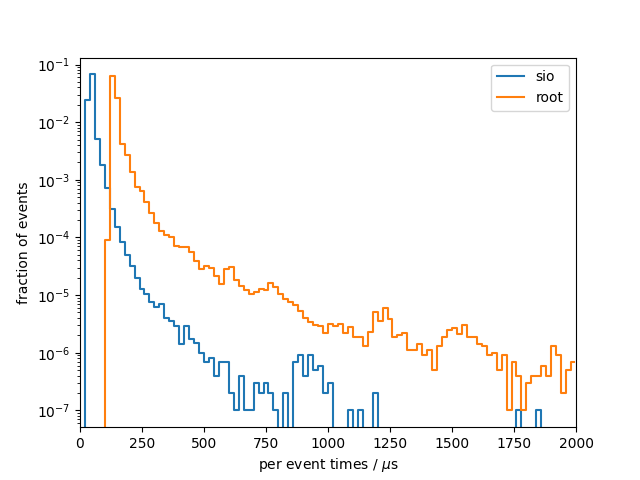
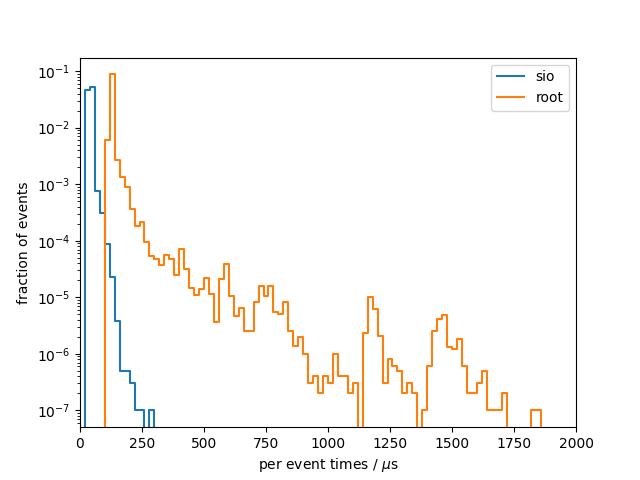
Updated version of ee -> Z -> tau tau results

diff --git a/results/k4SimDelphes/ee_Z_tautau_root-6.20.04/README.md b/results/k4SimDelphes/ee_Z_tautau_root-6.20.04/README.md
@@ -13,26 +13,26 @@ Results from 10 benchmark runs with 100000 events each
 #### Wall times
 | min [s]  | mean [s] |  max [s] |
 |----------|----------|----------|
-|     1284 |     1362 |     1553 |
+|     1263 |     1266 |     1270 |
 
 #### I/O times
 |                          |   min    |   mean   |   max    |
 |--------------------------|----------|----------|----------|
-| total [s]                |    12.52 |    15.01 |    22.77 |
+| total [s]                |    12.22 |    12.27 |    12.34 |
 #### Setup times
 |                          |   min    |   mean   |   max    |
 |--------------------------|----------|----------|----------|
-| total setup [ms]         |    10.51 |    14.50 |    24.40 |
-| constructor [ms]         |    1.974 |    4.819 |    15.10 |
-| finish [ms]              |    8.381 |    9.671 |    13.89 |
+| total setup [ms]         |    10.31 |    10.92 |    13.40 |
+| constructor [ms]         |    1.950 |    2.312 |    4.836 |
+| finish [ms]              |    8.345 |    8.593 |    9.048 |
 #### Per event times
 |                          |   min    |   mean   |   max    |
 |--------------------------|----------|----------|----------|
-| median [us]              |    120.6 |    138.4 |    192.3 |
-| min [us]                 |    70.24 |    77.42 |    106.3 |
-| max [us]                 |     1969 | 1.12e+04 | 2.66e+04 |
-| 90 percentile [us]       |    146.1 |    194.4 |    351.0 |
-| 99 percentile [us]       |    228.5 |    332.5 |    575.6 |
+| median [us]              |    120.8 |    121.1 |    121.6 |
+| min [us]                 |    73.32 |    74.40 |    75.59 |
+| max [us]                 |    445.3 |    909.0 |     1266 |
+| 90 percentile [us]       |    140.2 |    140.8 |    141.8 |
+| 99 percentile [us]       |    176.5 |    182.1 |    191.2 |
 
 ### root
 Results from 10 benchmark runs with 100000 events each
@@ -40,26 +40,26 @@ Results from 10 benchmark runs with 100000 events each
 #### Wall times
 | min [s]  | mean [s] |  max [s] |
 |----------|----------|----------|
-|     1283 |     1368 |     1493 |
+|     1270 |     1273 |     1279 |
 
 #### I/O times
 |                          |   min    |   mean   |   max    |
 |--------------------------|----------|----------|----------|
-| total [s]                |    18.02 |    27.61 |    46.38 |
+| total [s]                |    17.76 |    18.28 |    18.71 |
 #### Setup times
 |                          |   min    |   mean   |   max    |
 |--------------------------|----------|----------|----------|
-| total setup [ms]         |    691.4 |    749.0 |     1045 |
-| constructor [ms]         |    29.47 |    36.60 |    58.18 |
-| finish [ms]              |    660.3 |    712.4 |     1005 |
+| total setup [ms]         |    662.9 |    670.6 |    690.5 |
+| constructor [ms]         |    29.07 |    31.12 |    42.31 |
+| finish [ms]              |    632.3 |    639.5 |    660.9 |
 #### Per event times
 |                          |   min    |   mean   |   max    |
 |--------------------------|----------|----------|----------|
-| median [us]              |    134.3 |    185.3 |    312.0 |
-| min [us]                 |    119.4 |    128.2 |    136.4 |
-| max [us]                 | 7.81e+05 | 8.30e+05 | 9.95e+05 |
-| 90 percentile [us]       |    166.1 |    381.3 |    787.0 |
-| 99 percentile [us]       |    539.3 |     1078 |     1848 |
+| median [us]              |    138.3 |    143.1 |    145.5 |
+| min [us]                 |    124.2 |    128.8 |    133.0 |
+| max [us]                 | 7.59e+05 | 7.74e+05 | 7.92e+05 |
+| 90 percentile [us]       |    153.2 |    160.6 |    171.4 |
+| 99 percentile [us]       |    373.3 |    393.8 |    442.7 |
 
 ### per-event comparison plot
 
@@ -73,28 +73,28 @@ Results from 10 benchmark runs with 100000 events each
 #### Wall times
 | min [s]  | mean [s] |  max [s] |
 |----------|----------|----------|
-|    6.998 |    7.831 |    10.23 |
+|    5.781 |    5.943 |    6.143 |
 
 #### I/O times
 |                          |   min    |   mean   |   max    |
 |--------------------------|----------|----------|----------|
-| total [s]                |    4.289 |    4.784 |    6.138 |
+| total [s]                |    3.921 |    4.011 |    4.120 |
 #### Setup times
 |                          |   min    |   mean   |   max    |
 |--------------------------|----------|----------|----------|
-| total setup [ms]         |    4.063 |    4.623 |    6.715 |
-| read collection ids [us] |    0.163 |    0.222 |    0.469 |
-| open file [ms]           |    2.045 |    2.161 |    2.587 |
-| close file [us]          |    5.889 |    11.89 |    34.91 |
-| constructor [us]         |     1999 |     2449 |     4541 |
+| total setup [ms]         |    3.987 |    4.587 |    8.940 |
+| open file [ms]           |    2.043 |    2.217 |    3.319 |
+| read collection ids [us] |    0.101 |    0.130 |    0.180 |
+| constructor [us]         |     1934 |     2360 |     5613 |
+| close file [us]          |    6.354 |    7.715 |    8.553 |
 #### Per event times
 |                          |   min    |   mean   |   max    |
 |--------------------------|----------|----------|----------|
-| median [us]              |    42.71 |    46.01 |    53.35 |
-| min [us]                 |    27.59 |    29.23 |    31.25 |
-| max [us]                 |    938.7 |     1294 |     2265 |
-| 90 percentile [us]       |    48.44 |    57.44 |    86.50 |
-| 99 percentile [us]       |    78.89 |    102.3 |    188.0 |
+| median [us]              |    39.84 |    40.50 |    41.24 |
+| min [us]                 |    25.38 |    26.12 |    26.78 |
+| max [us]                 |    138.8 |    177.6 |    290.5 |
+| 90 percentile [us]       |    44.68 |    45.60 |    47.19 |
+| 99 percentile [us]       |    52.46 |    63.10 |    73.43 |
 
 ### root
 Results from 10 benchmark runs with 100000 events each
@@ -102,28 +102,28 @@ Results from 10 benchmark runs with 100000 events each
 #### Wall times
 | min [s]  | mean [s] |  max [s] |
 |----------|----------|----------|
-|    17.67 |    19.07 |    22.34 |
+|    15.86 |    16.34 |    16.83 |
 
 #### I/O times
 |                          |   min    |   mean   |   max    |
 |--------------------------|----------|----------|----------|
-| total [s]                |    14.79 |    15.99 |    18.69 |
+| total [s]                |    13.85 |    14.31 |    14.77 |
 #### Setup times
 |                          |   min    |   mean   |   max    |
 |--------------------------|----------|----------|----------|
-| total setup [ms]         |    396.8 |    462.6 |    656.6 |
-| read collection ids [us] |    0.391 |    0.767 |    2.844 |
-| open file [ms]           |    388.4 |    454.0 |    645.5 |
-| close file [us]          |     7538 |     8599 | 1.11e+04 |
-| constructor [us]         |    0.317 |    0.386 |    0.819 |
+| total setup [ms]         |    398.4 |    406.9 |    417.7 |
+| open file [ms]           |    390.4 |    399.6 |    410.6 |
+| read collection ids [us] |    0.156 |    0.175 |    0.214 |
+| constructor [us]         | 4.40e-02 | 7.95e-02 |    0.219 |
+| close file [us]          |     6255 |     7306 |     8135 |
 #### Per event times
 |                          |   min    |   mean   |   max    |
 |--------------------------|----------|----------|----------|
-| median [us]              |    129.9 |    137.8 |    150.2 |
-| min [us]                 |    110.6 |    117.9 |    127.6 |
-| max [us]                 | 2.55e+05 | 2.73e+05 | 3.37e+05 |
-| 90 percentile [us]       |    139.6 |    161.2 |    220.1 |
-| 99 percentile [us]       |    253.5 |    317.7 |    428.4 |
+| median [us]              |    121.4 |    127.3 |    131.9 |
+| min [us]                 |    107.2 |    111.8 |    115.2 |
+| max [us]                 | 2.54e+05 | 2.57e+05 | 2.66e+05 |
+| 90 percentile [us]       |    130.1 |    134.7 |    138.8 |
+| 99 percentile [us]       |    212.5 |    233.7 |    254.8 |
 
 ### per-event comparison plot
 
